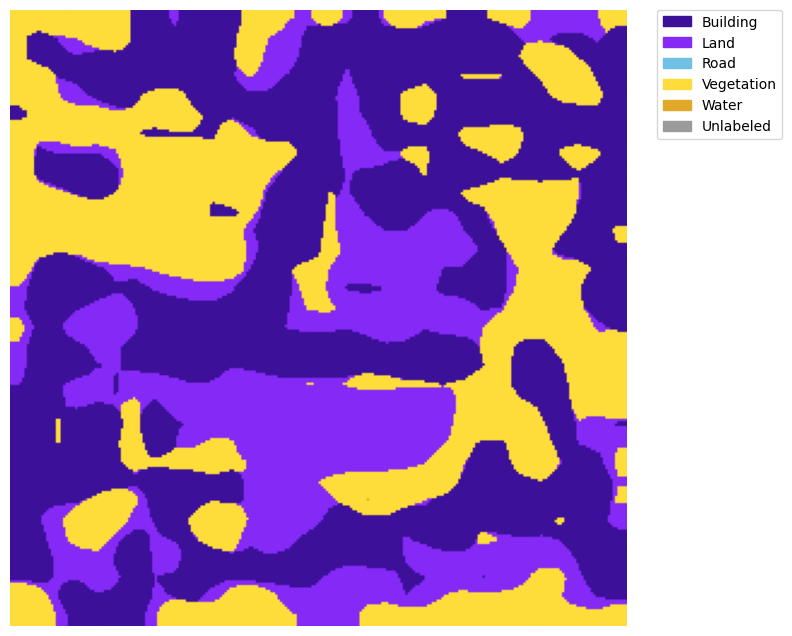
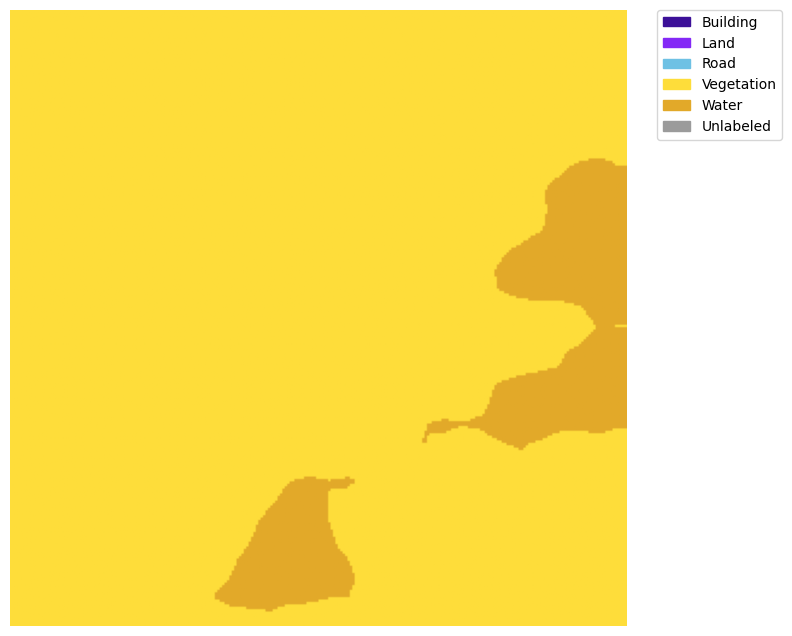
feat: implement api

diff --git a/api.py b/api.py
@@ -1,0 +1,113 @@
+# api.py
+# API REST para predição de segmentação de imagens de satélite
+# Endpoint: POST /predict (upload de imagem) → retorna máscara predita PNG
+
+from flask import Flask, request, send_file, jsonify
+import os
+import torch
+from torchvision import transforms
+from torchvision.models.segmentation import deeplabv3_resnet50
+from PIL import Image
+import numpy as np
+import io
+import ssl
+ssl._create_default_https_context = ssl._create_unverified_context
+
+app = Flask(__name__)
+
+# Configuração do modelo
+NUM_CLASSES = 6
+MODEL_PATH = 'satellite_segmentation.pth'
+device = torch.device('cuda' if torch.cuda.is_available() else 'cpu')
+
+# Carrega o modelo uma vez ao iniciar a API
+model = deeplabv3_resnet50(weights=None, num_classes=NUM_CLASSES)
+model.load_state_dict(torch.load(MODEL_PATH, map_location=device))
+model = model.to(device)
+model.eval()
+
+# Transformações
+transform = transforms.Compose([
+    transforms.Resize((256, 256)),
+    transforms.ToTensor(),
+])
+
+# Cores das classes (RGB normalizadas 0-1)
+CLASS_COLORS = [
+    (60/255, 16/255, 152/255),      # Building
+    (132/255, 41/255, 246/255),     # Land
+    (110/255, 193/255, 228/255),    # Road
+    (254/255, 221/255, 58/255),     # Vegetation
+    (226/255, 169/255, 41/255),     # Water
+    (155/255, 155/255, 155/255)     # Unlabeled
+]
+
+def predict_image(image_bytes):
+    """
+    Recebe bytes de imagem, faz predição e retorna máscara RGB como array numpy.
+    """
+    image = Image.open(io.BytesIO(image_bytes)).convert('RGB')
+    image = image.resize((256, 256))
+    input_tensor = transform(image).unsqueeze(0).to(device)
+    
+    with torch.no_grad():
+        output = model(input_tensor)['out']
+        pred_mask = torch.argmax(output.squeeze(), dim=0).cpu().numpy()
+    
+    # Converte máscara de classes para RGB
+    rgb_mask = np.zeros((pred_mask.shape[0], pred_mask.shape[1], 3), dtype=np.uint8)
+    for idx, color in enumerate(CLASS_COLORS):
+        rgb_mask[pred_mask == idx] = [int(c * 255) for c in color]
+    
+    return rgb_mask
+
+@app.route('/predict', methods=['POST'])
+def predict():
+    """
+    Endpoint POST /predict
+    Espera um arquivo de imagem no campo 'image' (multipart/form-data).
+    Retorna a máscara predita como PNG.
+    """
+    if 'image' not in request.files:
+        return jsonify({'error': 'Nenhum arquivo de imagem enviado. Use o campo "image".'}), 400
+    
+    file = request.files['image']
+    if file.filename == '':
+        return jsonify({'error': 'Nome de arquivo vazio.'}), 400
+    
+    try:
+        # Lê os bytes da imagem
+        image_bytes = file.read()
+        
+        # Faz a predição
+        rgb_mask = predict_image(image_bytes)
+        
+        # Converte o array numpy para imagem PIL e salva em buffer
+        mask_image = Image.fromarray(rgb_mask, mode='RGB')
+        buffer = io.BytesIO()
+        mask_image.save(buffer, format='PNG')
+        buffer.seek(0)
+        
+        return send_file(buffer, mimetype='image/png', as_attachment=False, download_name='predicted_mask.png')
+    
+    except Exception as e:
+        return jsonify({'error': f'Erro ao processar imagem: {str(e)}'}), 500
+
+@app.route('/health', methods=['GET'])
+def health():
+    """
+    Endpoint de health check.
+    """
+    return jsonify({'status': 'ok', 'model': 'DeepLabV3-ResNet50', 'classes': NUM_CLASSES, 'device': str(device)})
+
+if __name__ == '__main__':
+    # Verifica se o modelo existe
+    if not os.path.exists(MODEL_PATH):
+        print(f"ERRO: Modelo '{MODEL_PATH}' não encontrado. Execute model.py para treinar o modelo antes de iniciar a API.")
+        exit(1)
+    
+    print(f"API iniciada. Modelo carregado em {device}.")
+    print("Endpoints disponíveis:")
+    print("  POST /predict  - Upload de imagem para predição")
+    print("  GET  /health   - Health check")
+    app.run(host='0.0.0.0', port=3338, debug=True)

diff --git a/README.md b/README.md
@@ -5,14 +5,16 @@ Este projeto treina um modelo de segmentação semântica (DeepLabV3-ResNet50) p
 ## Estrutura do projeto
 
 ```
+```
 AgentesInteligentes/
 ├── model.py              # Treinamento e função de predição básica
 ├── predict.py            # Script de predição com CLI e legenda
+├── api.py                # API REST para predição via upload de imagem
 ├── dataset/
-│   ├── training/           # Imagens para treino (.jpg)
-│   ├── testing/           # Imagens para realizar testes e predições (.jpg)
+│   ├── images/           # Imagens RGB (.jpg)
 │   └── masks/            # Máscaras anotadas (.png ou .jpg) com cores padronizadas
 └── README.md             # Este guia
+```
 ```
 
 ### Classes e cores para treino do modelo com máscaras (mapeamento RGB → classe)
@@ -27,15 +29,23 @@ As máscaras devem usar exatamente essas cores para que o conversor RGB→classe
 
 ## Requisitos
 
+- macOS com Python 3.9+ (recomendado)
+- GPU CUDA opcional (acelera o treino)
 - Pacotes Python:
   - torch, torchvision
   - Pillow, numpy
   - matplotlib (opcional, para salvar imagem com legenda no predict)
+  - Flask (para a API REST)
 
-Instalação dos pacotes:
+Instalação dos pacotes (exemplos):
 
 ```zsh
-pip install torch torchvision Pillow numpy matplotlib
+# Opcional: criar e ativar um ambiente virtual
+python3 -m venv .venv
+source .venv/bin/activate
+
+# Instalar dependências
+pip install torch torchvision Pillow numpy matplotlib flask
 ```
 
 Observação: o código define um bypass SSL para evitar erros de certificado em ambientes locais. Em produção/remoto, remova-o.
@@ -100,6 +110,48 @@ Saídas:
 Como funciona:
 - O script carrega `satellite_segmentation.pth`, redimensiona a entrada para 256×256, roda a inferência e converte o mapa de classes (0–5) em cores RGB originais, adicionando uma legenda com nomes.
 
+## Usar a API REST
+
+A API REST (`api.py`) permite fazer predições via HTTP. Ideal para integração com outras aplicações ou front-ends.
+
+### Iniciar a API
+
+```zsh
+python3 api.py
+```
+
+A API roda em `http://localhost:3338` com os seguintes endpoints:
+
+- **POST /predict**: Recebe uma imagem via upload e retorna a máscara predita em formato PNG.
+- **GET /health**: Health check do serviço.
+
+### Fazer uma predição via API
+
+Usando `curl`:
+
+```zsh
+curl -X POST -F "image=@dataset/images/image0050.jpg" http://localhost:3338/predict --output predicted_mask_api.png
+```
+
+Usando Python (requests):
+
+```python
+import requests
+
+url = 'http://localhost:3338/predict'
+files = {'image': open('dataset/images/image0050.jpg', 'rb')}
+response = requests.post(url, files=files)
+
+if response.status_code == 200:
+    with open('predicted_mask_api.png', 'wb') as f:
+        f.write(response.content)
+    print('Máscara salva em predicted_mask_api.png')
+else:
+    print('Erro:', response.json())
+```
+
+A API retorna diretamente a imagem PNG com as cores das classes (sem legenda sobreposta, apenas a máscara RGB).
+
 ## Arquivos principais
 
 - `model.py`
@@ -109,6 +161,11 @@ Como funciona:
   - Função `predict_image` (inferência básica por arquivo).
 - `predict.py`
   - Carrega o checkpoint `satellite_segmentation.pth`.
-  - CLI para escolher a imagem dentro da pasta **testing**: `python3 predict.py <arquivo.jpg>`.
+  - CLI para escolher a imagem: `python3 predict.py <arquivo.jpg>`.
   - Gera `predicted_mask.png` com cores originais e legenda.
+- `api.py`
+  - API REST com Flask.
+  - Endpoint POST `/predict` para upload de imagem e retorno da máscara predita em PNG.
+  - Endpoint GET `/health` para verificar status do serviço.
+  - Carrega o modelo uma vez ao iniciar, mantendo-o em memória para inferências rápidas.
 
